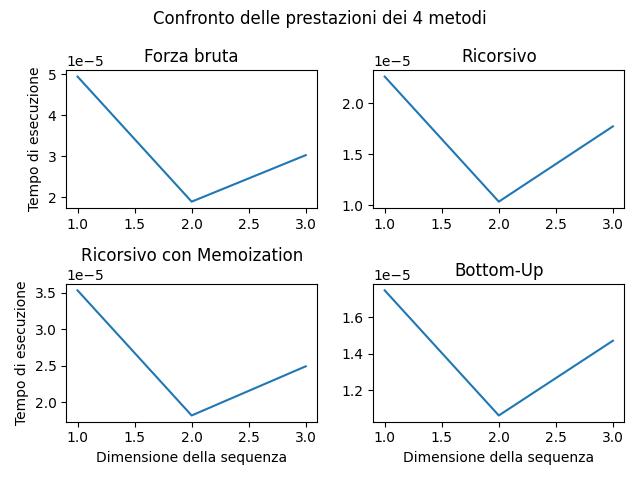
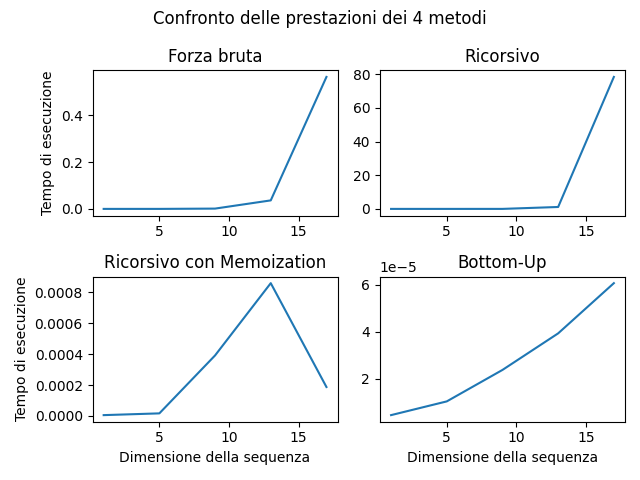
commit

diff --git a/FrancescaSani_Es1/main.py b/FrancescaSani_Es1/main.py
@@ -2,25 +2,22 @@ import random
 from timeit import default_timer as timer
 import matplotlib.pyplot as plt
 from LCS import *
-
-
-def random_string_generator(length=2, min_value=0, max_value=1):  # metodo per la generazione casuale delle sequenze da testare
-    sequence = ""
-    for i in range(length):
-        sequence += str(random.randint(min_value, max_value))
-    return sequence
-
 import string
 
-number_of_strings = 10
-length_of_string = 10
-for x in range(number_of_strings):
-    print(
-        "".join(
-            random.choice(string.ascii_uppercase)
-            for _ in range(length_of_string)
-        )
-    )
+timeArrayBruteForce = []
+timeArrayRecursive = []
+timeArrayRecursiveMemo = []
+timeArrayBottomUp = []
+stepArray = []
+
+maxLength = 100
+j = 15
+
+def random_string_generator(length):
+    sequence = ""
+    for x in range(length):
+        sequence = ("".join(random.choice(string.ascii_uppercase)for _ in range(length)))
+    return sequence
 
 if __name__ == '__main__':
     print("\n")
@@ -31,66 +28,38 @@ if __name__ == '__main__':
     print("********************************************************************")
     print("\n")
 
-    for i in range(5):  # controllo sull'input della dimensione minima
-        i -= 1
-        minLength = input("Inserisci la dimensione minima delle sequenze (min 1): ")
-        minLength = int(minLength)
-        if minLength >= 1:
-            break
-
-    for i in range(5):  # controllo sull'input della dimensione massima
-        i -= 1
-        maxLength = input("Inserisci la dimensione massima delle sequenze (si consiglia max 16): ")
-        maxLength = int(maxLength)
-        if maxLength >= minLength:
-            break
-
-    for i in range(5):  # controllo sull'input dell'incremento per la generazione delle diverse sequenze
-        i -= 1
-        step = input("Inserisci lo step di generazione delle sequenze (min 1): ")
-        step = int(step)
-        if step >= 1:
-            break
-
-    timeArrayBruteForce = []
-    timeArrayRecursive = []
-    timeArrayRecursiveMemo = []
-    timeArrayBottomUp = []
-    stepArray = []
-
-    for i in range(minLength, maxLength + 1, step):
-        sequence1 = random_string_generator(i, 0, 9)  # sequenza X generata casualmente
-        sequence2 = random_string_generator(i, 0, 9)  # sequenza Y generata casualmente
+    for i in range(1, maxLength, j):
+        s1 = random_string_generator(i)  # sequenza X generata casualmente
+        s2 = random_string_generator(i)  # sequenza Y generata casualmente
         print("\n")
         print("Dimensione: ", i)
-        print("Sequenze generate casualmente e confrontate: ", sequence1, "  ", sequence2)
+        print("Sequenze generate casualmente e confrontate: ", s1, "  ", s2)
 
         stepArray.append(i)  # array con la dimensione delle sequenze per le ascisse dei grafici
 
-        lcs1 = LCS(
-            sequence1)  # creazione dell'oggetto LCS a cui verrà passata X come attributo e Y come parametro di volta in volta
+        lcs1 = LCS(s1)  # creazione dell'oggetto LCS a cui verrà passata X come attributo e Y come parametro di volta in volta
 
         # misurazioni sull'algoritmo brute force
         start = timer()
-        lcs1.lcs_bruteForce(sequence2)
+        print("LCS: ", lcs1.lcs_bruteForce(s2))
         end = timer()
         timeArrayBruteForce.append(end - start)
 
         # misurazioni sull'algoritmo puramente ricorsivo
         start = timer()
-        lcs1.lcs_recursive(sequence2)
+        print("LCS: ", lcs1.lcs_recursive(s2))
         end = timer()
         timeArrayRecursive.append(end - start)
 
         # misurazioni sull'algoritmo ricorsivo con memoization
         start = timer()
-        lcs1.lcs_memoization(sequence2)
+        print("LCS: ", lcs1.lcs_memoization(s2))
         end = timer()
         timeArrayRecursiveMemo.append(end - start)
 
         # misurazioni sull'algoritmo bottom-up
         start = timer()
-        lcs1.lcs_bottomUp(sequence2)
+        print("LCS: ", lcs1.lcs_bottomUp(s2))
         end = timer()
         timeArrayBottomUp.append(end - start)
 

diff --git a/FrancescaSani_Es1/LCS.py b/FrancescaSani_Es1/LCS.py
@@ -38,12 +38,16 @@ class LCS:
                 self.lenght = maxL
                 self.result = maxSub
 
+        return self.lenght
+
     # algoritmo ricorsivo
     def lcs_recursive(self, s):
         m = len(self.sequence) - 1
         n = len(s) - 1
 
         self.lenght = self.lcs_rec(s, m, n)
+
+        return self.lenght
 
     def lcs_rec(self, s, m, n):
         if m < 0 or n < 0:
@@ -60,6 +64,8 @@ class LCS:
 
         c = [[0 for x in range(m + 1)] for y in range(n + 1)]
         self.lenght = self.lcs_recMemoization(s, c, m, n)
+
+        return self.lenght
 
     def lcs_recMemoization(self, s, c, m, n):
         if c[m][n] != 0:
@@ -95,3 +101,5 @@ class LCS:
                     c[j][i] = c[j][i - 1]
 
         self.lenght = c[n][m]
+
+        return self.lenght
